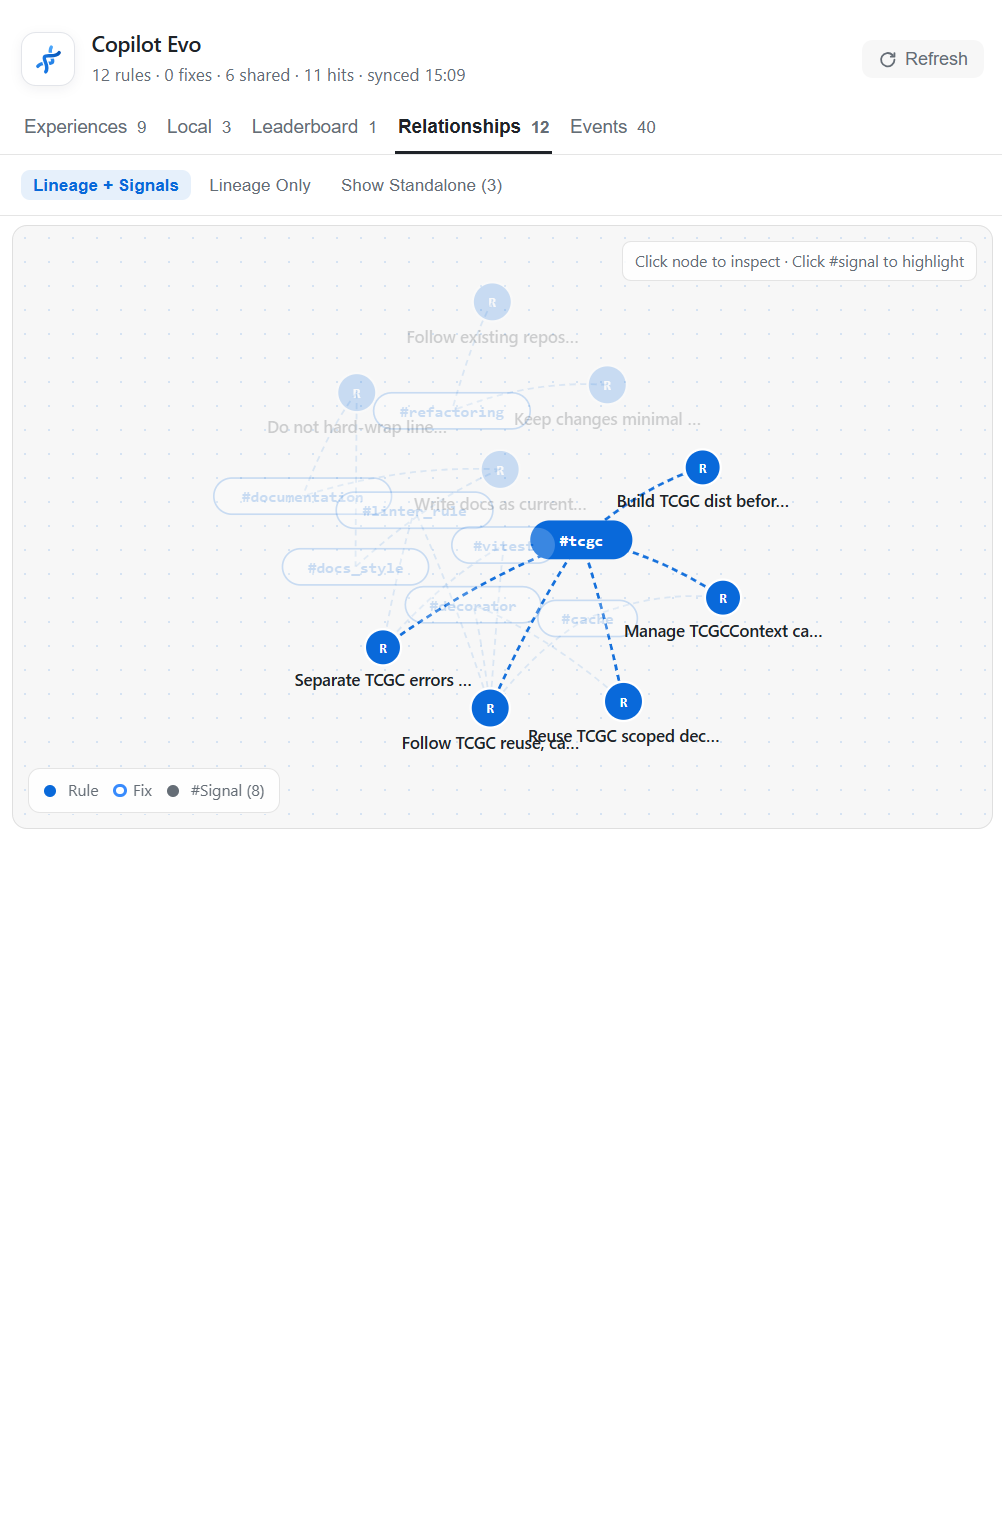
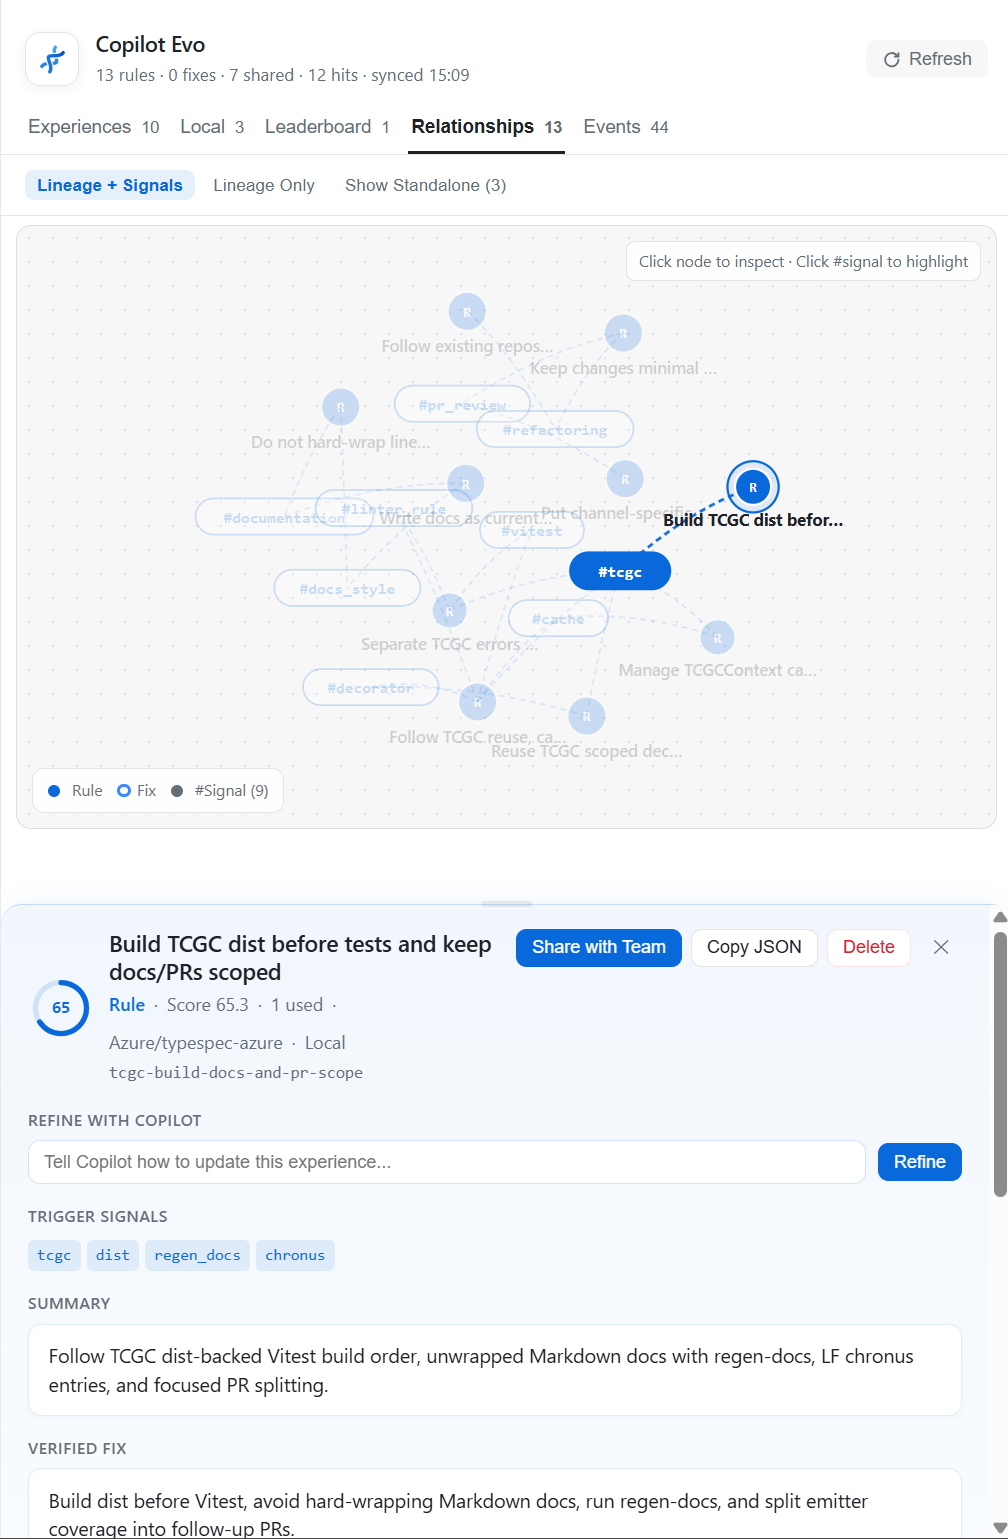
docs: embed compressed walkthrough GIF and updated Relationships screenshot in README

diff --git a/README.md b/README.md
@@ -25,6 +25,10 @@
 
 ---
 
+<p align="center">
+  <img src="docs/images/demo.gif" width="92%" alt="Copilot Evo Walkthrough" />
+</p>
+
 ## Highlights
 
 <table>
